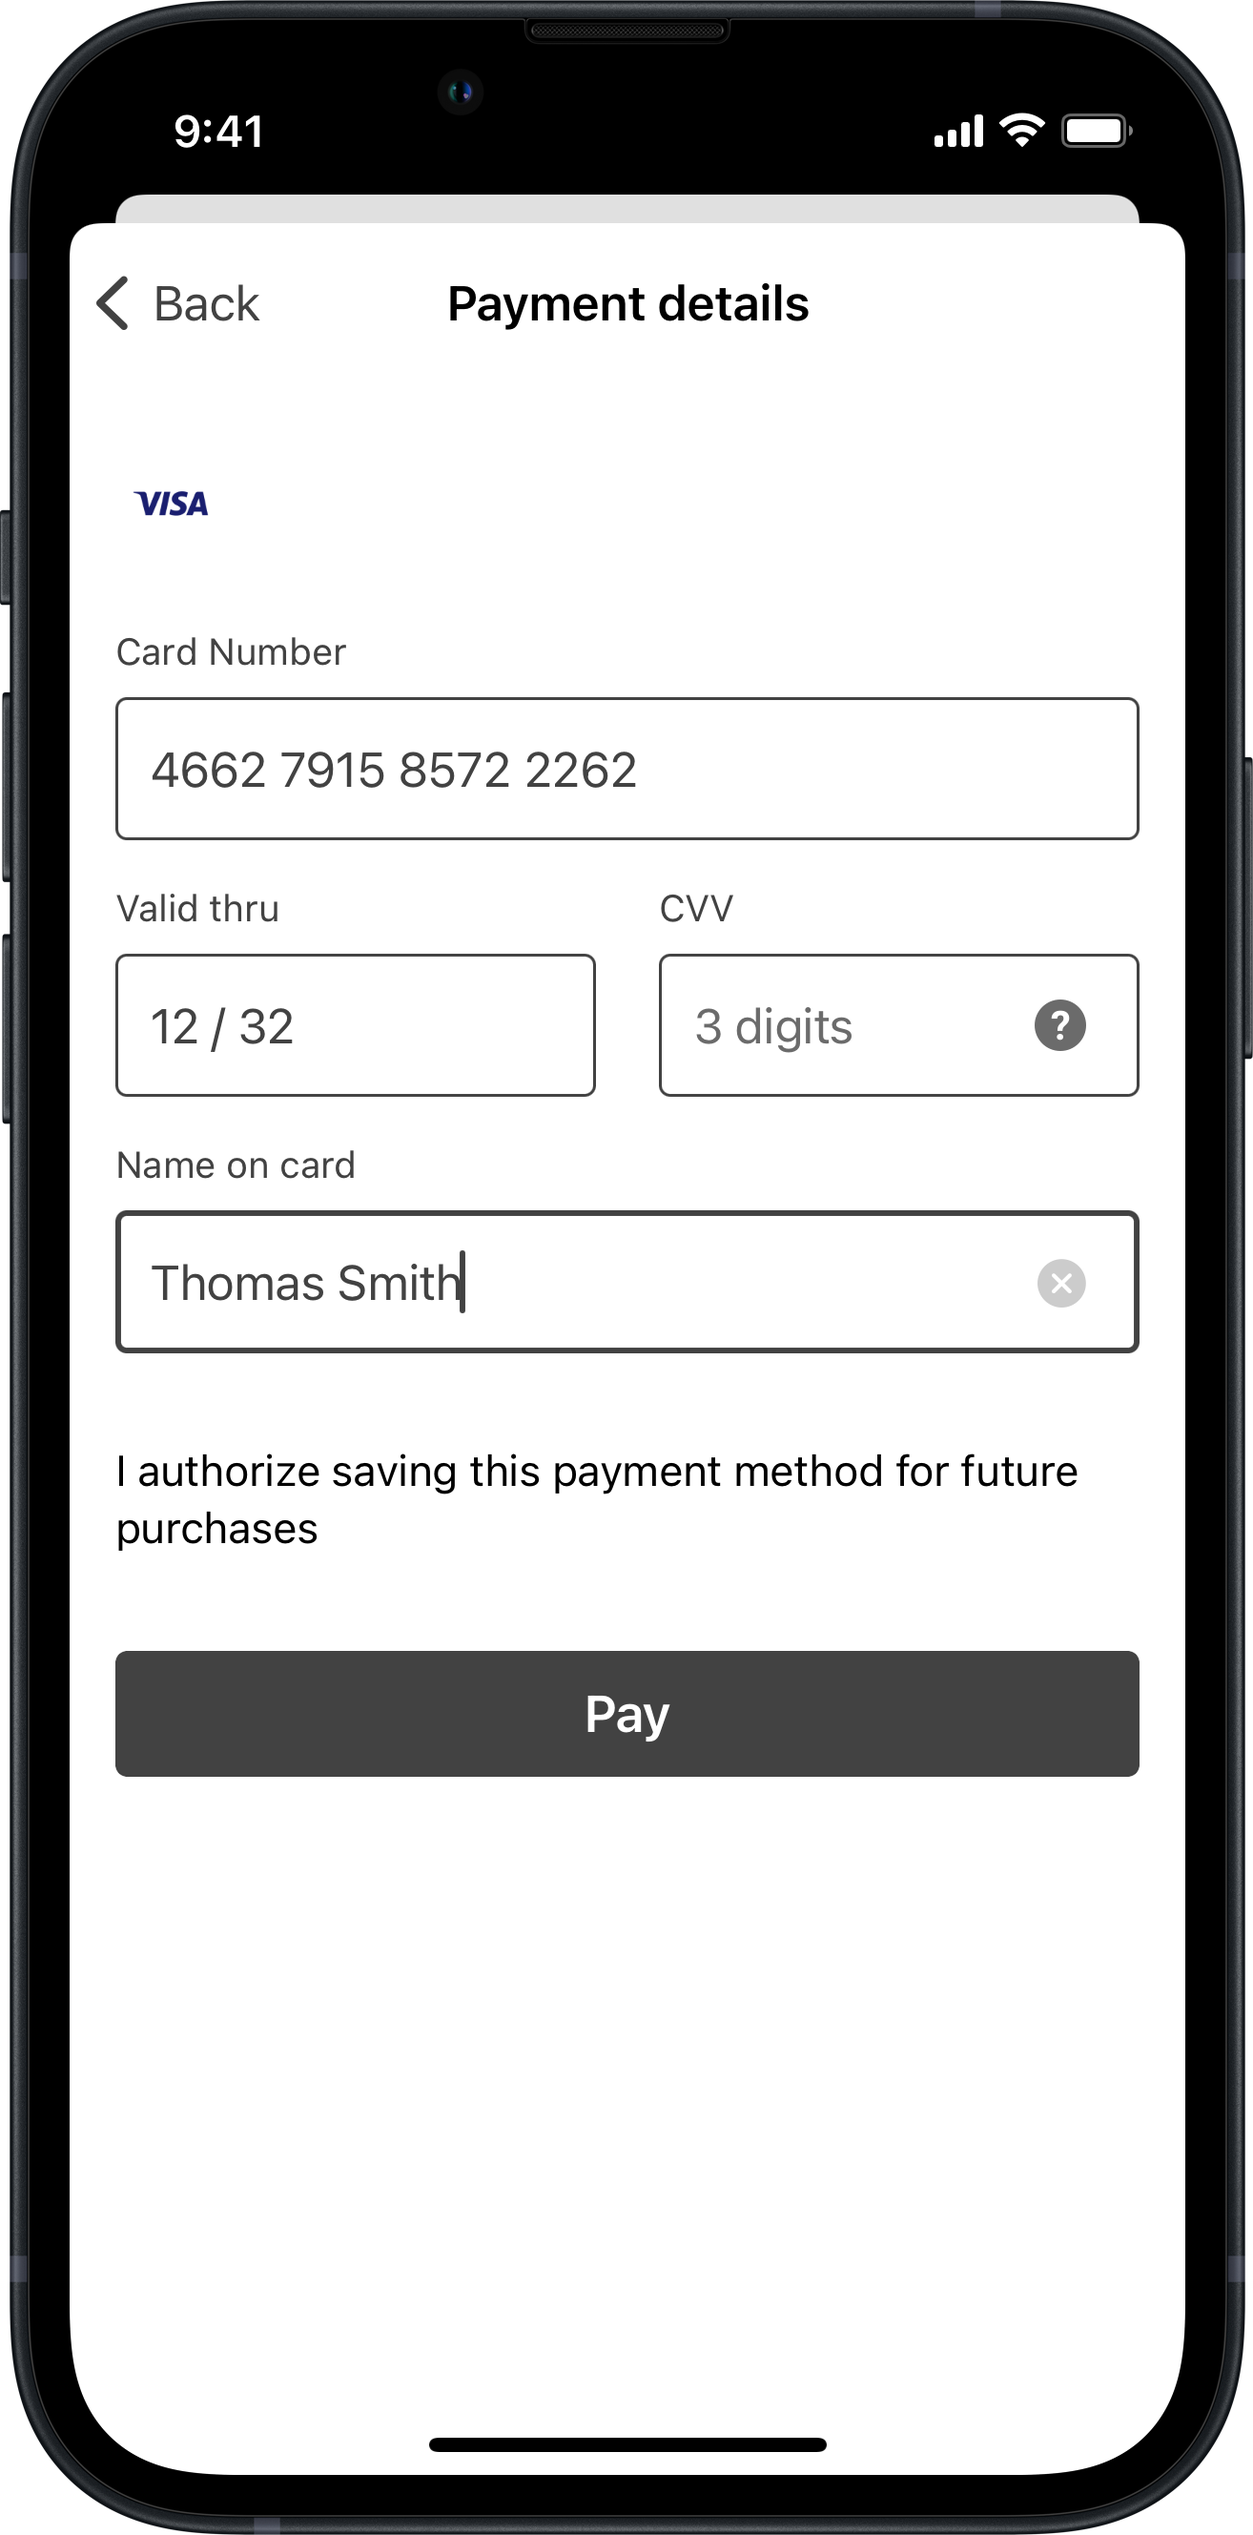
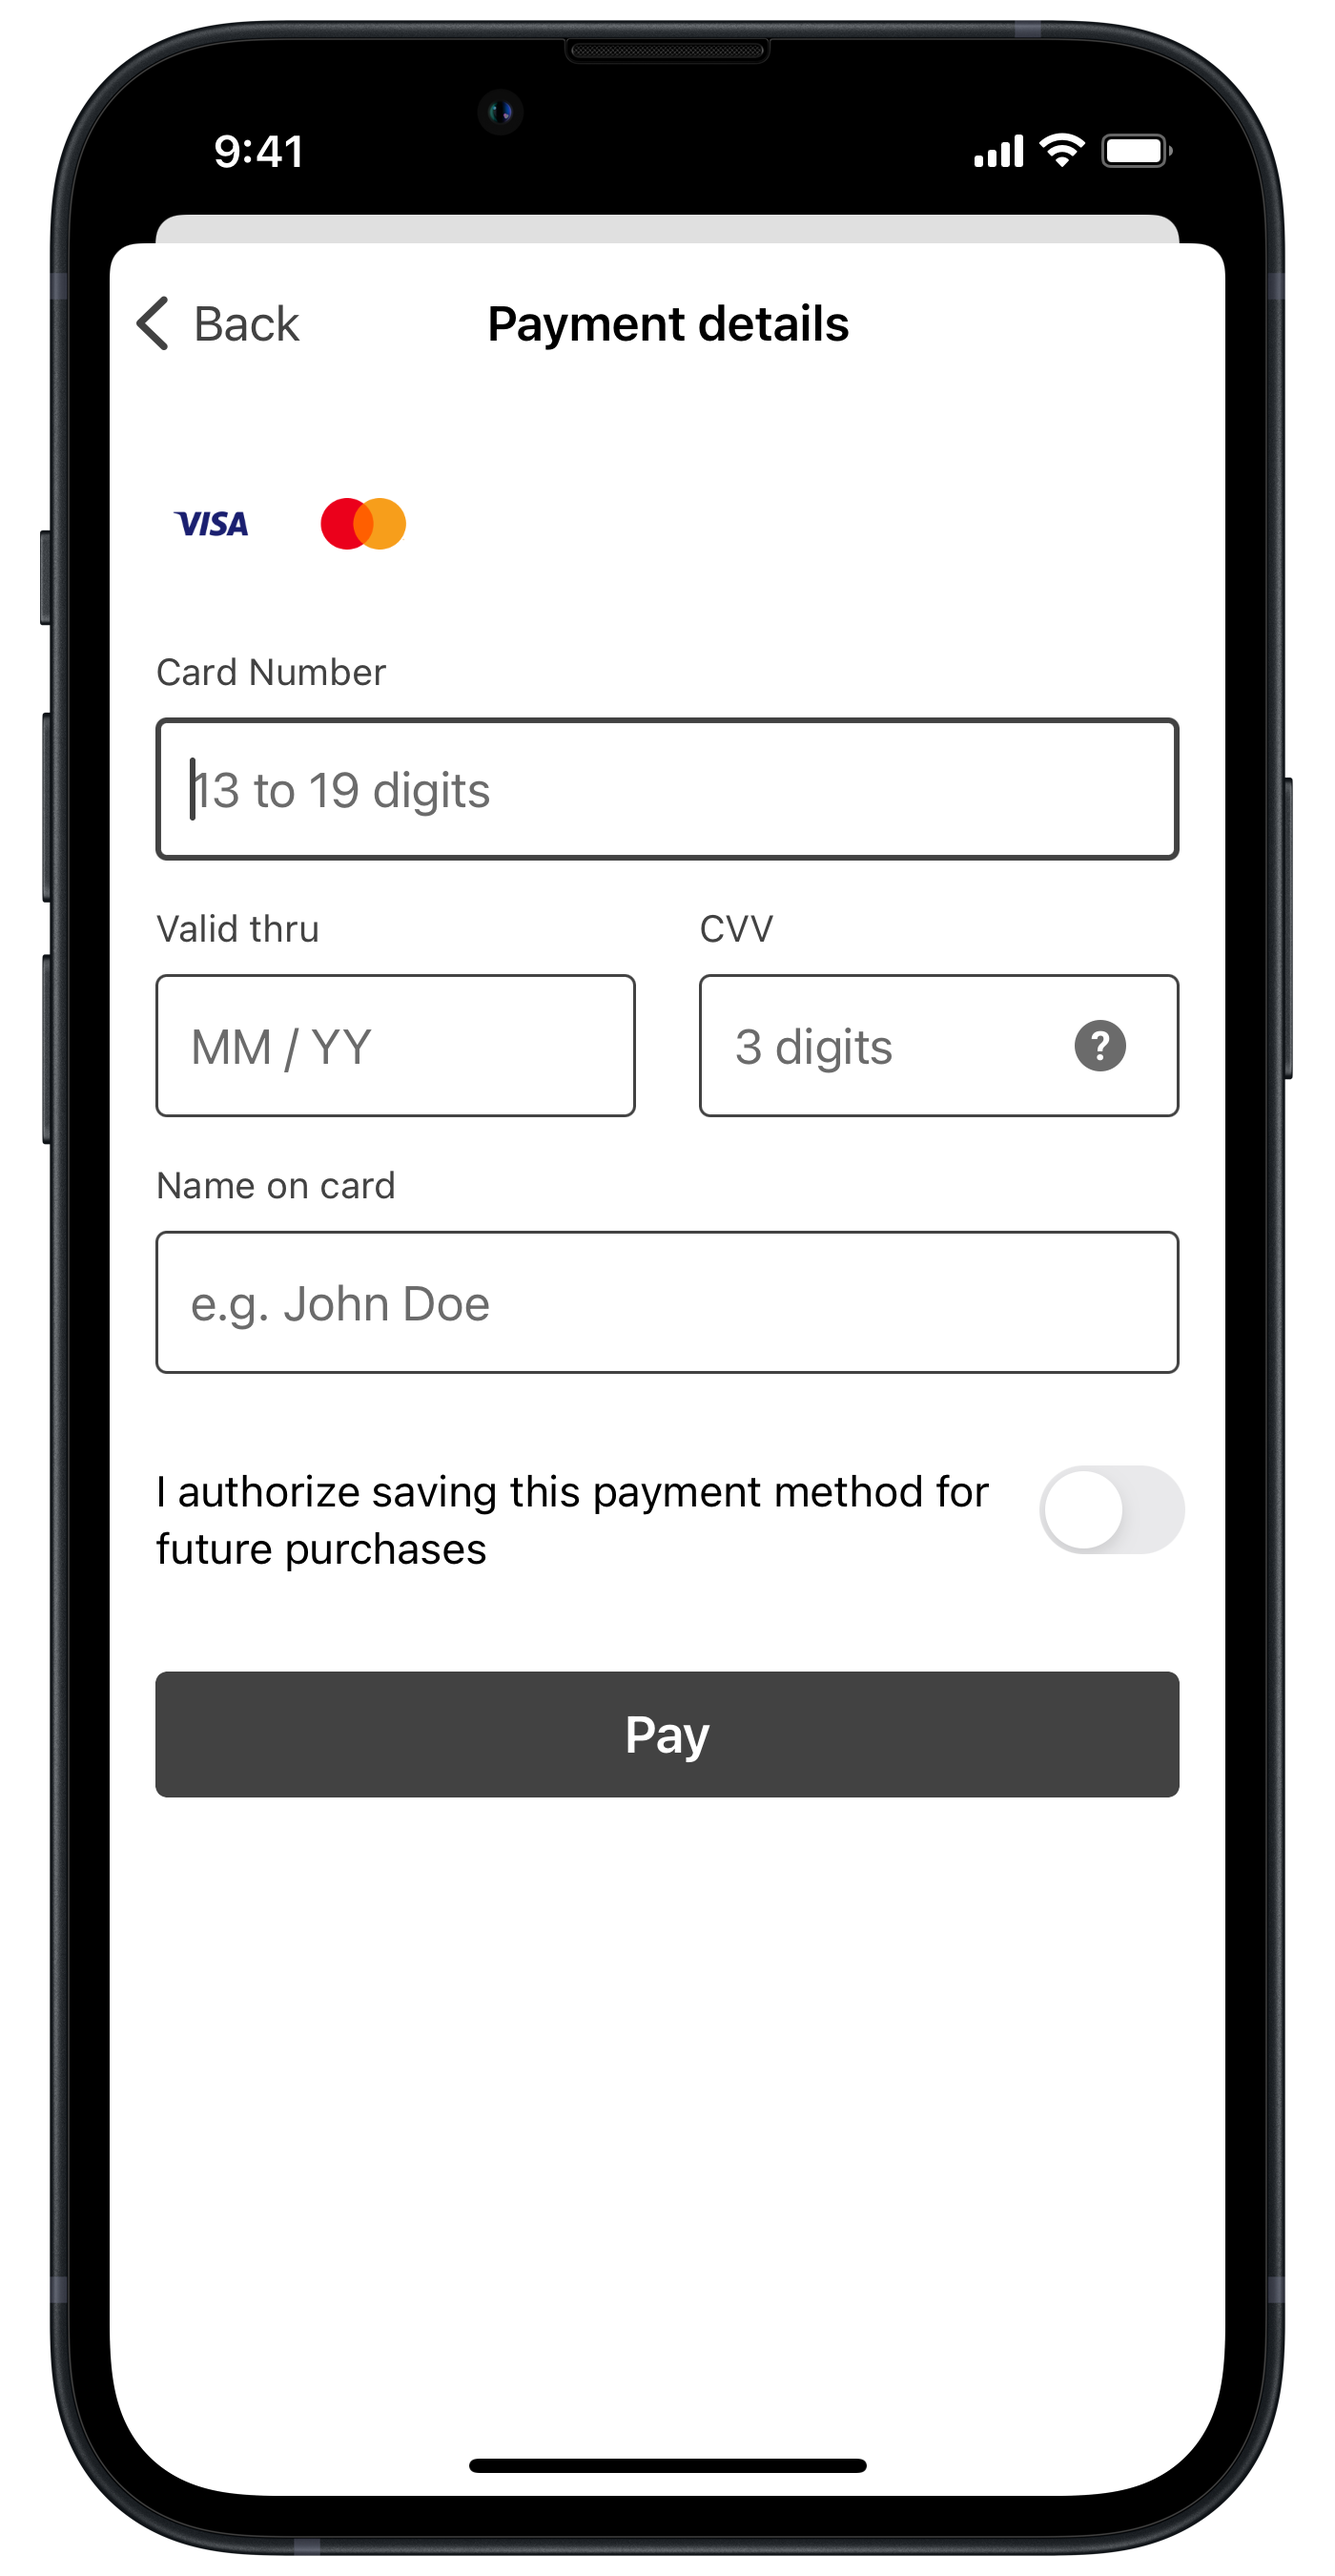
[PCX-3646] Update screenshots

diff --git a/README.md b/README.md
@@ -2,4 +2,4 @@ With Payoneer’s Checkout SDK for iOS you can accept payments in your app and p
 
 For information about integrating the Checkout SDK into your app, visit the [documentation portal](https://checkoutdocs.payoneer.com/docs/checkout-ios-sdk).
 
-<img width="33%" src="docs/list.png"><img width="33%" src="docs/card.png"><img width="33%" src="docs/sepa.png">
+<img width="40%" src="docs/list.png"> <img width="40%" src="docs/card.png">
